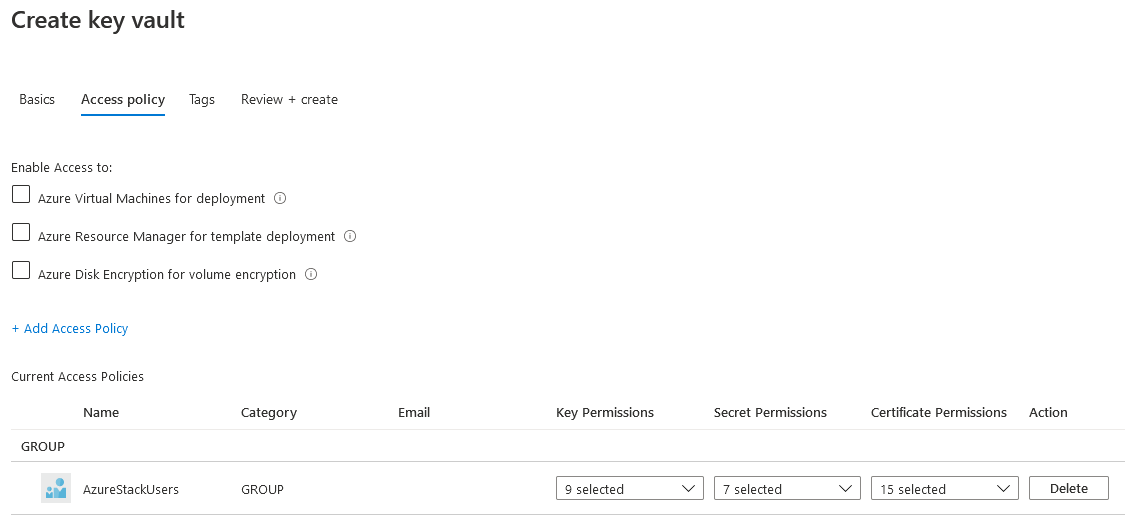
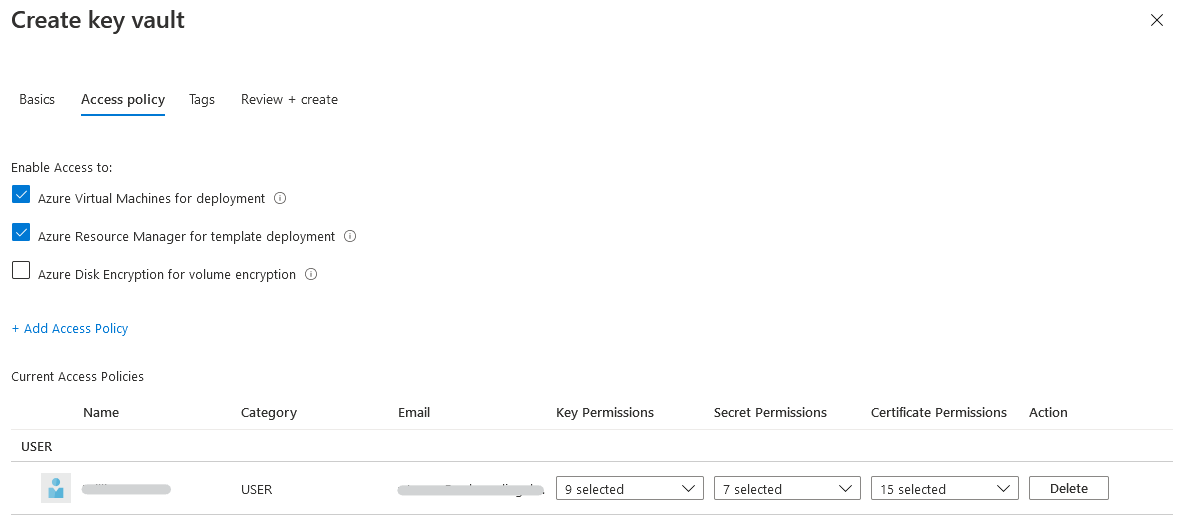
Move some steps to earlier in the guide

diff --git a/articles/azure/azs-how-create-service-fabric-portal.md b/articles/azure/azs-how-create-service-fabric-portal.md
@@ -66,7 +66,7 @@ Before creating a Service Fabric cluster, it is necessary to create a key vault 
 
     - *Access policy*
 
-        - **Enable Access to:** - Allow specific Azure resources to access certificates and secrets from the key vault.
+        - **Enable Access to:** - Select the first two check boxes to allow access to the key vault for virtual machines and the Azure Resource Manager.
 
         - **Current Access Policies** - Select **+Add access policy** to configure the permissions that a user, group or service principal has to the key vault.
 
@@ -116,33 +116,25 @@ Before creating a Service Fabric cluster, it is necessary to create a key vault 
 
 ### Gathering key vault and certificate information
 
-During configuration of the Service Fabric cluster, you must provide several details relating to the key vault and certificates. You must also configure access to the key vault for virtual machines and the Azure Resource Manager.
+During configuration of the Service Fabric cluster, you must provide several details relating to the key vault and certificates.
 
 1. Once you have deployed the key vault, navigate to it by clicking **All services** in the favourites panel, then selecting **Key Vaults** under the *Security* section.
 
 2. Select your key vault from the list.
 
-3. In the *Settings* section of the key vault's blade, select **Access policies**.
+3. In the *Settings* section of the key vault blade, select **Properties**.
 
-4. On the *Access policies* page, click **Click to show advanced access policies**.
+4. Copy the **Resource ID** and store it for later use.
 
-5. Select the top two check boxes, then click the **Save** button.
+5. In the *Settings* section of the key vault blade, select **Secrets**.
 
-![Advanced access policies](images/azs_advancedaccesspolicies.png)
+6. On the *Secrets* blade, select the certificate you added in the previous section.
 
-6. In the *Settings* section of the key vault blade, select **Properties**.
+7. On the certificate's blade, select the current version.
 
-7. Copy the **Resource ID** and store it for later use.
+8. Copy the **Secret Identifier**.
 
-8. Select **Secrets**.
-
-9. On the *Secrets* page, select the certificate you added in the previous section.
-
-10. On the certificate's blade, select the current version.
-
-11. Copy the **Secret Identifier**.
-
-12. Repeat for each certificate that you are going to use for the Service Fabric cluster.
+9. Repeat for each certificate that you are going to use for the Service Fabric cluster.
 
 You also need the thumbprint of the certificate(s). For information about how to find this information, see [here](https://docs.microsoft.com/en-us/dotnet/framework/wcf/feature-details/how-to-retrieve-the-thumbprint-of-a-certificate).
 
@@ -153,8 +145,6 @@ You also need the thumbprint of the certificate(s). For information about how to
    ![New option in favourites panel](images/azsp_newmenu.png)
 
 2. In the search bar, search for **Service Fabric Cluster**.
-
-   ![Compute option in New blade](images/azsp_computeblade.png)
 
 3. Select **Service Fabric Cluster** and click **Create**.
 
